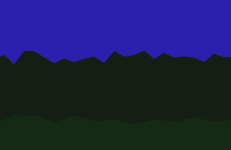
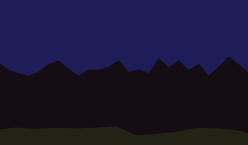
13!

diff --git a/index.html b/index.html
@@ -63,7 +63,7 @@
       	</div>
       </a>
 
-      <div class="flap"><p>13.</p></div>
+      <div class="flap"><p>15.</p></div>
       
       <div class="flap"><p>23.</p></div>
       <div class="flap"><p>20.</p></div>
@@ -96,7 +96,11 @@
       	</div>
       </a>      
       
-      <div class="flap"><p>15.</p></div>
+      <a href="{{ site.baseurl }}/13/TrainWindow.html">
+      	<div class="flap" style="background-image: url('{{ site.baseurl }}/img/train.png');">
+      	  <span class="label">13. Train Window</span>
+      	</div>
+      </a>
 
       <a href="{{ site.baseurl }}/5/Fears.html">
       	<div class="flap" style="background-image: url('{{ site.baseurl }}/img/fears.png');">
